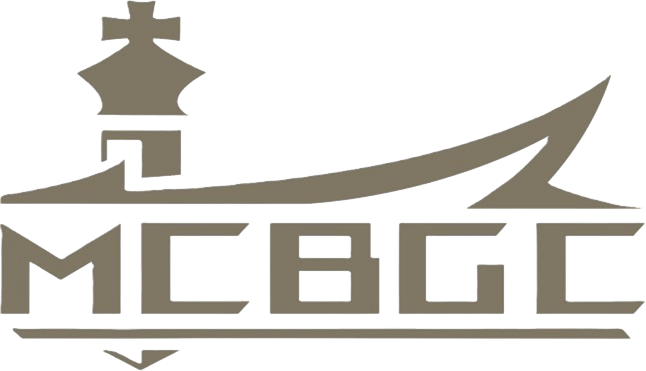
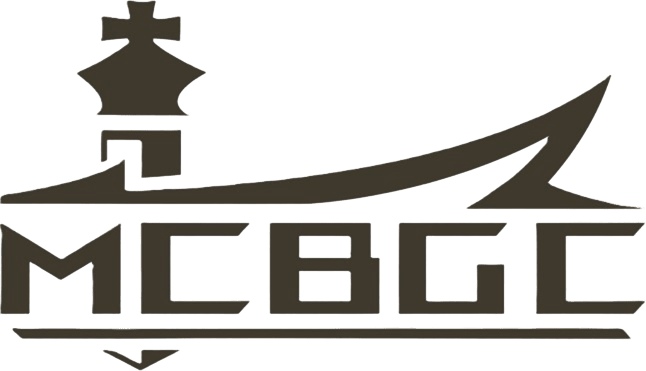
adjusted some color issue

Changed region(s): [[0.0, 0.593, 1.0, 1.0], [0.0, 0.0, 0.9907, 0.5633]]

diff --git a/Club website/coremem.html b/Club website/coremem.html
@@ -8,15 +8,16 @@
     <header>
         <a href="index.html"><img src = "img\club icon.png" width="256px"></a>
         <nav>
-            <a href = "about.html">關於我們</a>
+            <a href = "#clubmeet">最新消息</a>
             <a href = "coremem.html">幹部介紹</a>
             <a href = "advguild.html">冒險者公會</a>
-            <a href = "#clubmeet">最新消息</a>
+            <a href = "about.html">關於我們</a>
         </nav>
     </header>
 
     <main>
         <h1>社團幹部</h1>
+        <hr>
         <div class = "memnavupper">
 
             <div class = "mem">

diff --git a/Club website/index.html b/Club website/index.html
@@ -7,10 +7,10 @@
     <header>
         <a href="index.html"><img src = "img\club icon.png" width="256px"></a>
         <nav>
-            <a href = "about.html">關於我們</a>
+            <a href = "#clubmeet">最新消息</a>
             <a href = "coremem.html">幹部介紹</a>
             <a href = "advguild.html">冒險者公會</a>
-            <a href = "#clubmeet">最新消息</a>
+            <a href = "about.html">關於我們</a>
         </nav>
     </header>
     

diff --git a/Club website/about.html b/Club website/about.html
@@ -8,10 +8,10 @@
     <header>
         <a href="index.html"><img src = "img\club icon.png" width="256px"></a>
         <nav>
-            <a href = "about.html">關於我們</a>
+            <a href = "#clubmeet">最新消息</a>
             <a href = "coremem.html">幹部介紹</a>
             <a href = "advguild.html">冒險者公會</a>
-            <a href = "#clubmeet">最新消息</a>
+            <a href = "about.html">關於我們</a>
         </nav>
     </header>
 

diff --git a/Club website/advguild.html b/Club website/advguild.html
@@ -8,10 +8,10 @@
     <header>
         <a href="index.html"><img src = "img\club icon.png" width="256px"></a>
         <nav>
-            <a href = "about.html">關於我們</a>
+            <a href = "#clubmeet">最新消息</a>
             <a href = "coremem.html">幹部介紹</a>
             <a href = "advguild.html">冒險者公會</a>
-            <a href = "#clubmeet">最新消息</a>
+            <a href = "about.html">關於我們</a>
         </nav>
     </header>
 

diff --git a/Club website/css/coremem.css b/Club website/css/coremem.css
@@ -49,6 +49,10 @@ nav{
     font-size: 150%;
 }   
 
+nav a:hover{
+    background-color: lightgray;
+}
+
 main{
     background-color: white;
     min-width: 1280px;
@@ -56,11 +60,13 @@ main{
 
 main h1{
     text-align: center;
-    margin-top: 32px;
-    margin-left: 425px; 
-    padding-bottom: 32px;
-    border-bottom: black 2px solid;
-    max-width: 681px;
+    margin-top: 32px; 
+}
+
+hr{
+    width: 728px;
+    height: 2px;
+    color: black;
 }
 
 .memnavupper{

diff --git a/Club website/css/about.css b/Club website/css/about.css
@@ -45,6 +45,10 @@ nav{
     font-size: 150%;
 }   
 
+nav a:hover{
+    background-color: lightgray;
+}
+
 main{
     background-color: white;
     min-width: 1280px;
@@ -65,8 +69,9 @@ main{
 }
 
 .even{
+
     position:relative;
-    margin-left: 728px;
+    left: 57%;
     padding: 32px 96px;
     margin-top: 96px;
     margin-bottom: 96px;

diff --git a/Club website/css/style.css b/Club website/css/style.css
@@ -37,6 +37,10 @@ nav{
     font-size: 150%;
 }
 
+nav a:hover{
+    background-color: lightgray;
+}
+
 .trailer{
     min-width: 1280px;
     min-height: 768px;

diff --git a/Club website/css/advguild.css b/Club website/css/advguild.css
@@ -59,6 +59,10 @@ nav{
     font-size: 150%;
 }   
 
+nav a:hover{
+    background-color: lightgray;
+}
+
 main{
     background-color: white;
     
